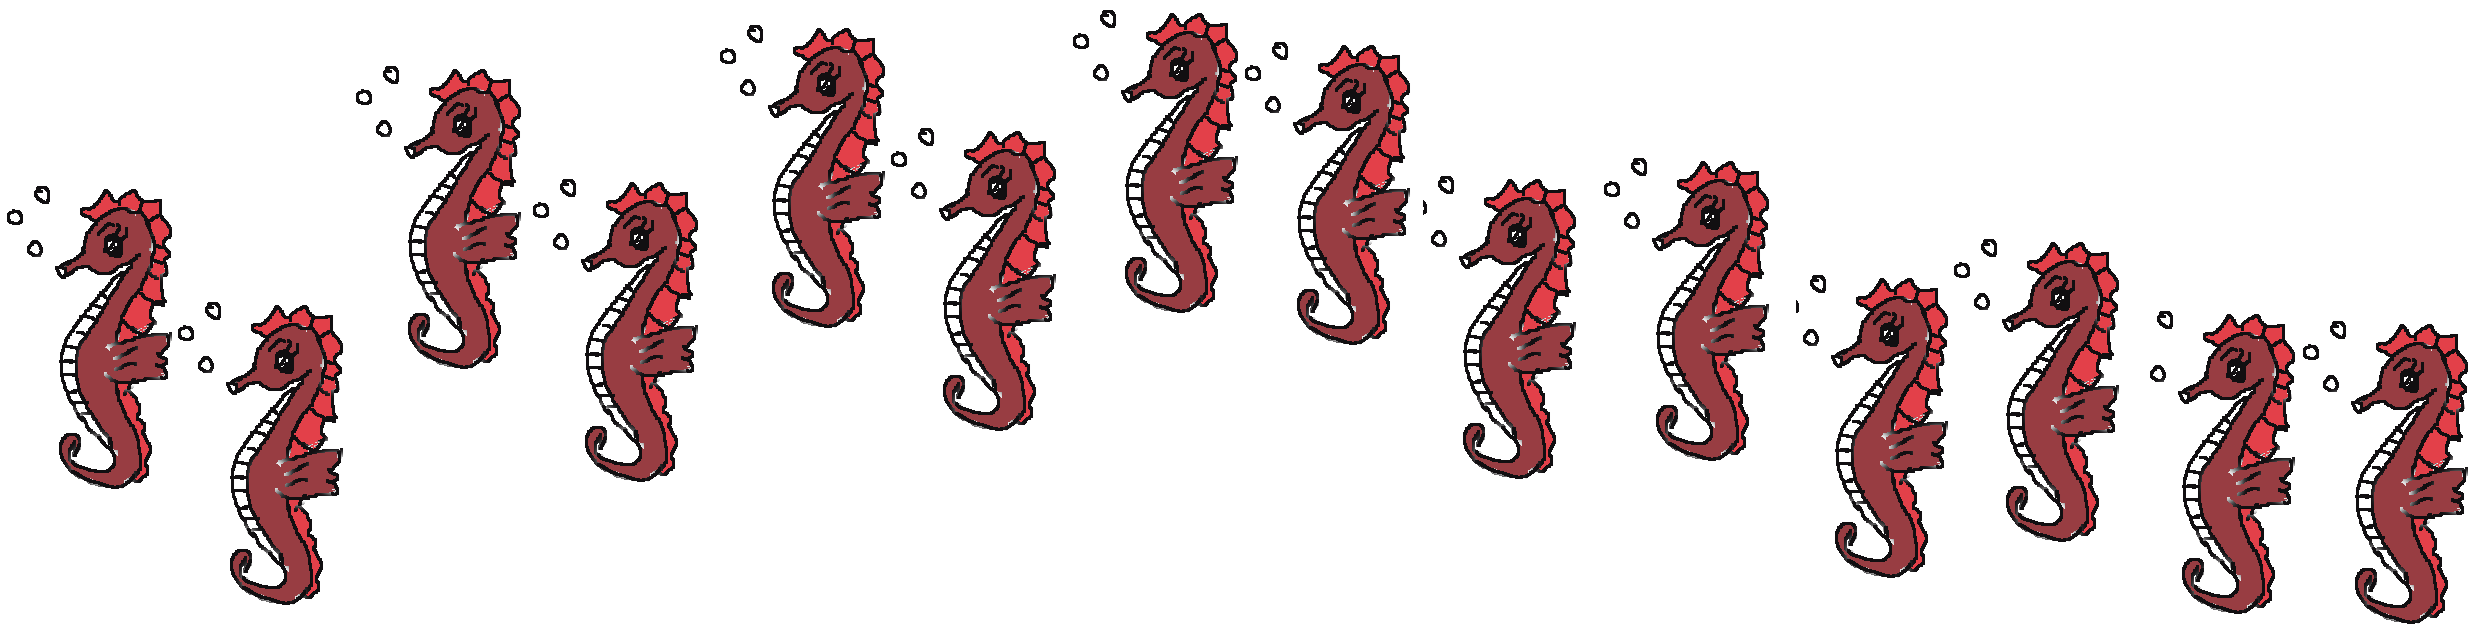
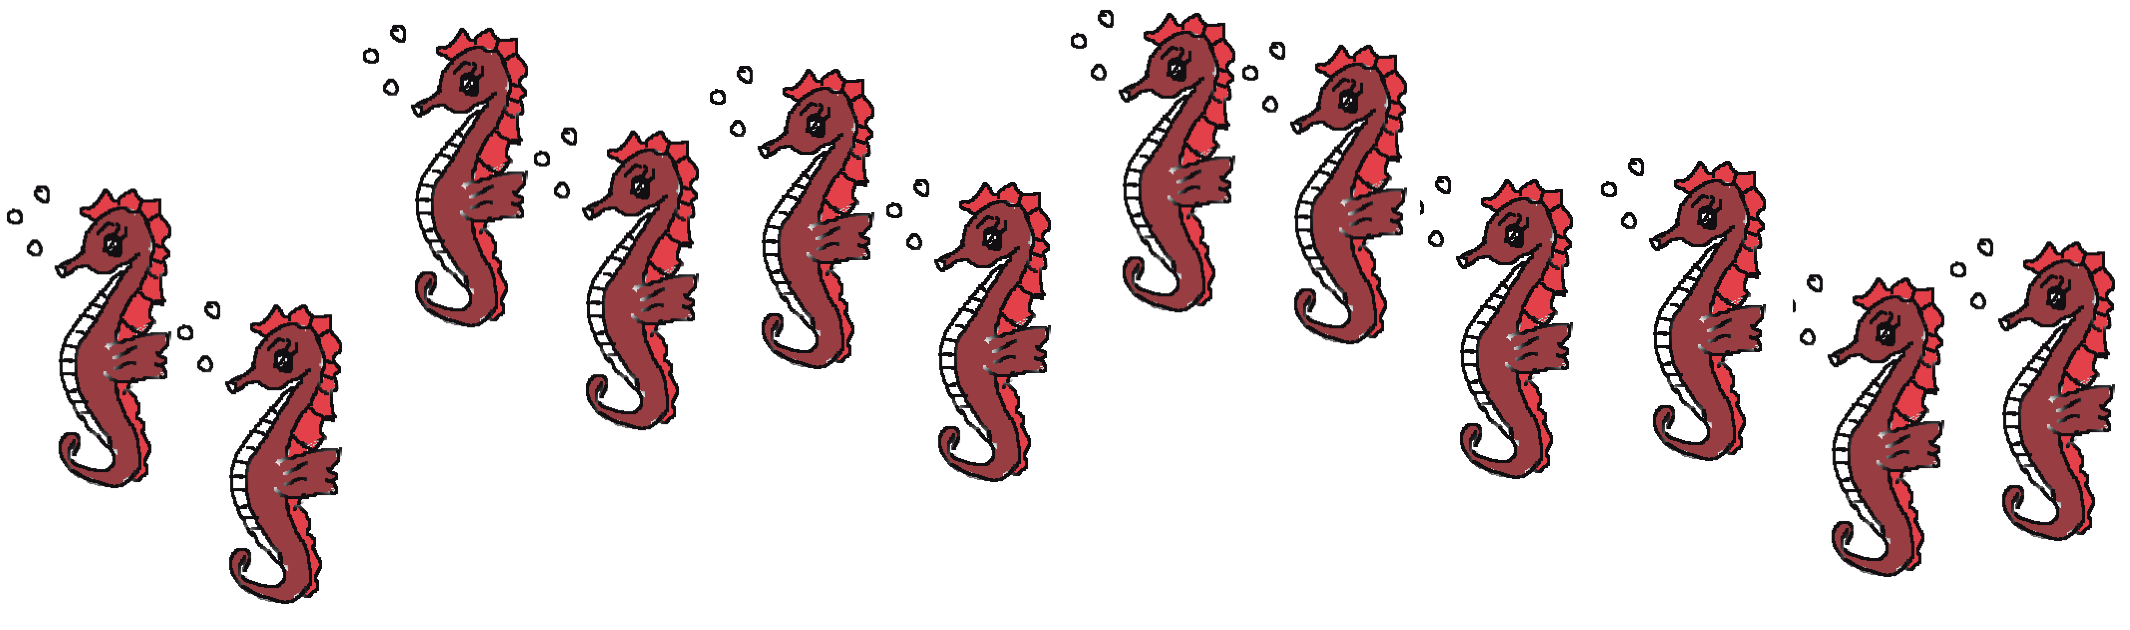
updated movements in water

diff --git a/src/sceneManager.js b/src/sceneManager.js
@@ -93,6 +93,7 @@ class SceneManager {
             this.game.addEntity(new Bush(this.game, b.x, b.y))
         });
 
+
     }
 
     loadWater(x, y) {
@@ -122,12 +123,10 @@ class SceneManager {
         });
 
         levelWater.seahorses.forEach(f => {
-            let seahorse = new Seahorses(this.game, f.x , f.y);
-             this.game.addEntity(seahorse);
+             this.game.addEntity(new Seahorses(this.game, f.x, f.y + 20));
         });
 
-       
-
+        
         levelWater.shark.forEach(sh => {
             this.game.addEntity(new Shark(this.game, sh.x, sh.y + 250));
         });
@@ -144,6 +143,7 @@ class SceneManager {
             this.game.addEntity(new Starfish(this.game, st.x, st.y + 750));
         });
 
+     
         this.game.addEntity({draw: ctx => ctx.drawImage(ASSET_MANAGER.getAsset('./assets/water_background/water_backgroundnew.png'), 0, 0, 2048, 1024, 0 - this.game.camera.x/5, 0, 2048, 1024), update: () => null})
         this.game.addEntity({draw: ctx => ctx.drawImage(ASSET_MANAGER.getAsset('./assets/water_background/water_backgroundnew.png'), 0, 0, 2048, 1024, 2048 - this.game.camera.x/5, 0, 2048, 1024), update: () => null})
         this.game.addEntity({draw: ctx => ctx.drawImage(ASSET_MANAGER.getAsset('./assets/water_background/water_backgroundnew.png'), 0, 0, 2048, 1024, 4096 - this.game.camera.x/5, 0, 2048, 1024), update: () => null})

diff --git a/src/main.js b/src/main.js
@@ -14,7 +14,7 @@ ASSET_MANAGER.queueDownload("./assets/characters/squid_ink/squid_ink_sheet2.png"
 ASSET_MANAGER.queueDownload("./assets/characters/starfish/starfish_sheet2.png");
 ASSET_MANAGER.queueDownload("./assets/characters/shark/shark_sheet.png");
 ASSET_MANAGER.queueDownload("./assets/characters/seahorses/seahorse_sheetnew.png");
-ASSET_MANAGER.queueDownload("./assets/characters/seahorses/seahorse_sheet_single.png");
+ASSET_MANAGER.queueDownload("./assets/characters/seahorses/seahorse.png");
 ASSET_MANAGER.queueDownload("./assets/characters/fishes/smallfish_sheet.png");
 
 
@@ -46,7 +46,7 @@ ASSET_MANAGER.queueDownload("./assets/music/FreedomM.mp3");
 
 //water level
 ASSET_MANAGER.queueDownload("./assets/characters/seahorses/seahorse.png");
-ASSET_MANAGER.queueDownload("./assets/characters/seahorses/seahorse_sheet_single.png");
+//ASSET_MANAGER.queueDownload("./assets/characters/seahorses/seahorse_sheet_single.png");
 ASSET_MANAGER.queueDownload("./assets/characters/fishes/smallfish_sheet.png");
 ASSET_MANAGER.queueDownload("./assets/water_background/water_background.png");
 ASSET_MANAGER.queueDownload("./assets/water_background/water_backgroundnew.png");

diff --git a/levels/levelWater.js b/levels/levelWater.js
@@ -2,10 +2,8 @@ class levelWaterGenerator {
 
   static seahorsesGenerate(count) {
     const seahorses = [];
-    let place = 0;
       for (let i=0; i < count; i++) {
-        seahorses[i] = {x: 100, y: 50};
-        place += 500;
+        seahorses[i] = {x: 500, y: 50};
       }
       return seahorses;
   } 
@@ -65,7 +63,7 @@ const levelWater = {
   squid_ink: levelWaterGenerator.squid_InkGenerate(7),
   shark: levelWaterGenerator.sharkGenerate(1),
   fish: levelWaterGenerator.fishes(25),
-  seahorses: levelWaterGenerator.seahorsesGenerate(5),
+  seahorses: levelWaterGenerator.seahorsesGenerate(1),
   //singleSeahorse: levelWaterGenerator.singleSeahorseGenerate(5),
   music: "./assets/music/FreedomM.mp3",
   powerUps: [{x: 100, y: 250}, {x: 7500, y: 700}],

diff --git a/entities/waterAnimals.js b/entities/waterAnimals.js
@@ -5,7 +5,7 @@ class Seahorses {
         this.game = game;
         this.speed = 3;
         this.spritesheet = ASSET_MANAGER.getAsset();
-        this.animator = new Animator(ASSET_MANAGER.getAsset("./assets/characters/seahorses/seahorse.png"), 0, 0, 355, 360, 7, 0.7, false, true);
+        this.animator = new Animator(ASSET_MANAGER.getAsset("./assets/characters/seahorses/seahorse.png"), 0, 0, 355, 360, 6, 0.7, false, true);
         
     };
 
@@ -15,7 +15,7 @@ class Seahorses {
     };
 
     update() {
-       
+        
     };
 };
 
@@ -35,8 +35,8 @@ class SingleSeahorse {
     };
 
     update() {
-       
     };
+    
 };
 
 class Fishes {

diff --git a/entities/waterEnemies.js b/entities/waterEnemies.js
@@ -24,7 +24,7 @@ class Squid_ink {
         this.updateBB()
         this.x -= this.speed + this.game.clockTick;
         if (this.x < - 200 ) { 
-            this.x = this.game.camera.x + 1400;
+            this.x = this.game.camera.x + 1200;
             this.y = this.y + 10;
         };
     }
